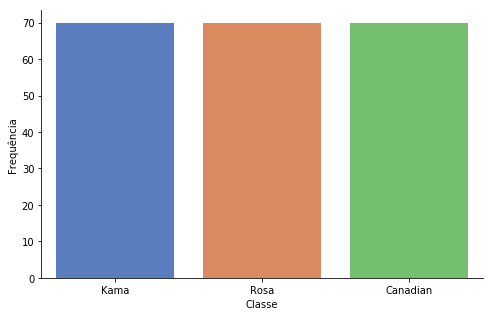
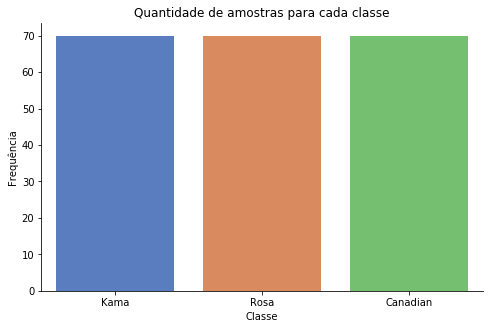
docs: new notebook's conversion to markdown

diff --git a/practical-project-4/resolucao-atividade-4.md b/practical-project-4/resolucao-atividade-4.md
@@ -9,7 +9,7 @@
 ## Importação das bibliotecas
 
 
-```
+```python
 import pandas as pd
 import numpy as np
 import combination as comb
@@ -21,87 +21,91 @@ import matplotlib.pyplot as plt
 from sklearn.model_selection import train_test_split, GridSearchCV
 from sklearn.neural_network import MLPClassifier
 
-from sklearn.metrics import accuracy_score
+from sklearn.metrics import accuracy_score, confusion_matrix
 ```
 
 ## Realizando a leitura do *dataset*
 
 
-```
+```python
 df = pd.read_csv('seeds_dataset.txt', sep='\t', header=None)
 df.columns = ["area","perimeter","compactness",
               "length_kernel","width_kernel","asymmetry_coefficient",
               "length_kernel_groove","variety"]
+print(f'Tamanho do dataset: {len(df)}')
 ```
 
-# Analisando o Dataset
+    Tamanho do dataset: 210
+
+
+# Analisando o *Dataset*
 
 ### 1. Histograma do atributo alvo
 
 
-```
+```python
 target_name = "variety"
-g = sns.catplot(x=target_name, data=df, kind="count", palette="muted", height=4.5, aspect=1.5)
+g = sns.catplot(x=target_name, data=df, kind="count", palette="muted", height=4.5, aspect=1.0)
 g.set_xticklabels(['Kama', 'Rosa', 'Canadian'])
 g.set_axis_labels("Classe", "Frequência")
+plt.title('Quantidade de amostras para cada classe')
+plt.show()
 ```
 
 
+![png](resolucao-atividade-4_files/resolucao-atividade-4_8_0.png)
 
 
-    <seaborn.axisgrid.FacetGrid at 0x1e72408abe0>
-
-
-
-
-![png](resolucao-atividade-4_files/resolucao-atividade-4_8_1.png)
-
+Conforme pode ser visto no histograma, as classes do atributo alvo são balanceadas, pois o *dataset* possui um total de 210 amostras e cada classe possui 70 amostras.
 
 ### 2. Heatmap da correlação de Pearson dos atributos do dataset
 
 
-```
+```python
 plt.figure(figsize = (10,7))
 plt.xticks(fontsize=14)
 plt.yticks(fontsize=14)
 
 corr = df.corr()
 
-sns.heatmap(corr, xticklabels=corr.columns, yticklabels=corr.columns,vmin=-1, vmax=1,linewidths=.5, cmap = "RdBu_r")
+sns.heatmap(corr, xticklabels=corr.columns, yticklabels=corr.columns,vmin=-1, vmax=1,linewidths=.5, cmap = "RdBu_r",annot=True)
+plt.title('Heatmap da correlação de Pearson')
+plt.show()
 ```
 
 
+![png](resolucao-atividade-4_files/resolucao-atividade-4_11_0.png)
 
 
-    <matplotlib.axes._subplots.AxesSubplot at 0x1e724104320>
+O *heatmap* acima exibe a correlação de Pearson entre todos os atributos do *dataset*, como pode ser visto o atributo `length_kernel_groove` possui uma correlação de aproximadamente igual a 0 com o atributo alvo `variety`. Assim, optou-se por remover o atributo do *dataset*.
 
 
-
-
-![png](resolucao-atividade-4_files/resolucao-atividade-4_10_1.png)
-
+```python
+df.drop(['length_kernel_groove'],axis=1,inplace=True)
+```
 
 # Pré-Processamento de Dados
 
+Antes de começar a utilizar o `GridSearchCV`, precisa-se primeiramente preparar o *dataset* e alguns atributos para serem utilizados na busca.
 
-```
+
+```python
 target = df.variety
 df.drop(['variety'],axis=1,inplace=True)
 ```
 
 
-```
-n_i = len(df.columns) #numero de neuronios na camada de entrada
-n_o = 3 #numero de neuronios na camada de saida (sujeito a mudanças)
+```python
+n_i, n_o = len(df.columns), 3
 ```
 
 
-```
+```python
 X_train, X_test, Y_train, Y_test = train_test_split(df,target,test_size=0.3)
 ```
 
 
-```
+```python
 def geometric_pyramid(alpha):
     return alpha*sqrt(n_i*n_o)
 ```
@@ -110,7 +114,7 @@ def geometric_pyramid(alpha):
 Para um `alpha = 2` ou `alpha = 3` o algoritmo para gerar o subconjunto fica bastante pesado. Talvez seja necessário diminuir o valor de `n_i` retirando colunas desnecessárias ou utilizar PCA. Coloquei `alpha = 1` apenas para testar
 
 
-```
+```python
 alpha = [0.5,1]
 n_h = [ceil(geometric_pyramid(a)) for a in alpha]
 hidden_layer_sizes = []
@@ -120,13 +124,12 @@ for n in n_h:
     hidden_layer_sizes = hidden_layer_sizes + subsets
 ```
 
-# Paramêtros para a busca em grade
+# Paramêtros/Hiperparamêtros para a busca em grade
 
-#### Observação:
-Professora pediu pra explicar porquê utilizou tal `solver` para a rede neural. Ela disse que apenas um serviria para o projeto, precisa-se procurar saber qual é
+Na célula seguinte temos os paramêtros a serem passados para as redes neurais. Para o hiperparamêtro *solver*, optou-se por utilizar apenas o `lbfgs` pois o *dataset* desta atividade possui apenas 210 amostras, caracterizando-o como um *dataset* pequeno. Assim, o *solver* `lbfgs` será mais eficiente para o problema.
 
 
-```
+```python
 params = {
     'activation': ['identity', 'logistic','tanh','relu'],
     'hidden_layer_sizes': hidden_layer_sizes,
@@ -134,219 +137,57 @@ params = {
 }
 ```
 
-# Busca em Grade
+# Projetando Redes Neurais através da busca em grade
+
+A acurácia foi selecionada como a métrica de desempenho a ser utilizada para as redes neurais do `GridSearchCV`, e o método de validação cruzada escolhido é o *k-fold* com *k* = 3.
 
 
-```
+```python
 gs = GridSearchCV(MLPClassifier(), params, cv=3, scoring='accuracy', return_train_score=1)
 ```
 
 
-```
-X = df
-y = target
+```python
+X,y = df,target
 ```
 
 
-```
+```python
 gs.fit(X,y);
 ```
 
 
-```
+```python
 pd.DataFrame(gs.cv_results_).drop('params', 1).sort_values(by='rank_test_score').head()
 ```
 
+Acima temos o *DataFrame* das Redes Neurais projetadas com o `GridSearchCV` ordenadas pelo campo `rank_test_score`, ou seja, está sendo exibido as cinco melhores redes neurais criadas. É possível retornar apenas a melhor rede neural através do campo `best_estimator_`, conforme abaixo.
+
+# Avaliando a melhor Rede Neural
 
 
-
-<div>
-<style scoped>
-    .dataframe tbody tr th:only-of-type {
-        vertical-align: middle;
-    }
-
-    .dataframe tbody tr th {
-        vertical-align: top;
-    }
-
-    .dataframe thead th {
-        text-align: right;
-    }
-</style>
-<table border="1" class="dataframe">
-  <thead>
-    <tr style="text-align: right;">
-      <th></th>
-      <th>mean_fit_time</th>
-      <th>std_fit_time</th>
-      <th>mean_score_time</th>
-      <th>std_score_time</th>
-      <th>param_activation</th>
-      <th>param_hidden_layer_sizes</th>
-      <th>param_solver</th>
-      <th>split0_test_score</th>
-      <th>split1_test_score</th>
-      <th>split2_test_score</th>
-      <th>mean_test_score</th>
-      <th>std_test_score</th>
-      <th>rank_test_score</th>
-      <th>split0_train_score</th>
-      <th>split1_train_score</th>
-      <th>split2_train_score</th>
-      <th>mean_train_score</th>
-      <th>std_train_score</th>
-    </tr>
-  </thead>
-  <tbody>
-    <tr>
-      <th>4</th>
-      <td>0.080784</td>
-      <td>0.012296</td>
-      <td>0.000333</td>
-      <td>4.704712e-04</td>
-      <td>identity</td>
-      <td>(5,)</td>
-      <td>lbfgs</td>
-      <td>0.986111</td>
-      <td>0.971014</td>
-      <td>0.797101</td>
-      <td>0.919048</td>
-      <td>0.085531</td>
-      <td>1</td>
-      <td>0.985507</td>
-      <td>0.971631</td>
-      <td>1.000000</td>
-      <td>0.985713</td>
-      <td>0.011582</td>
-    </tr>
-    <tr>
-      <th>6</th>
-      <td>0.055519</td>
-      <td>0.013188</td>
-      <td>0.000665</td>
-      <td>4.701342e-04</td>
-      <td>identity</td>
-      <td>(3, 2)</td>
-      <td>lbfgs</td>
-      <td>0.972222</td>
-      <td>0.971014</td>
-      <td>0.797101</td>
-      <td>0.914286</td>
-      <td>0.081977</td>
-      <td>2</td>
-      <td>0.978261</td>
-      <td>0.964539</td>
-      <td>1.000000</td>
-      <td>0.980933</td>
-      <td>0.014600</td>
-    </tr>
-    <tr>
-      <th>0</th>
-      <td>0.066487</td>
-      <td>0.010751</td>
-      <td>0.000333</td>
-      <td>4.703588e-04</td>
-      <td>identity</td>
-      <td>(3,)</td>
-      <td>lbfgs</td>
-      <td>0.972222</td>
-      <td>0.985507</td>
-      <td>0.768116</td>
-      <td>0.909524</td>
-      <td>0.099071</td>
-      <td>3</td>
-      <td>0.985507</td>
-      <td>0.957447</td>
-      <td>1.000000</td>
-      <td>0.980985</td>
-      <td>0.017664</td>
-    </tr>
-    <tr>
-      <th>20</th>
-      <td>0.056848</td>
-      <td>0.003550</td>
-      <td>0.000665</td>
-      <td>4.701903e-04</td>
-      <td>logistic</td>
-      <td>(3,)</td>
-      <td>lbfgs</td>
-      <td>0.972222</td>
-      <td>0.913043</td>
-      <td>0.840580</td>
-      <td>0.909524</td>
-      <td>0.053978</td>
-      <td>3</td>
-      <td>0.971014</td>
-      <td>0.872340</td>
-      <td>1.000000</td>
-      <td>0.947785</td>
-      <td>0.054644</td>
-    </tr>
-    <tr>
-      <th>24</th>
-      <td>0.059507</td>
-      <td>0.000940</td>
-      <td>0.000997</td>
-      <td>5.150430e-07</td>
-      <td>logistic</td>
-      <td>(5,)</td>
-      <td>lbfgs</td>
-      <td>0.944444</td>
-      <td>0.913043</td>
-      <td>0.768116</td>
-      <td>0.876190</td>
-      <td>0.076689</td>
-      <td>5</td>
-      <td>0.934783</td>
-      <td>0.872340</td>
-      <td>0.992908</td>
-      <td>0.933344</td>
-      <td>0.049232</td>
-    </tr>
-  </tbody>
-</table>
-</div>
-
-
-
-
-```
+```python
 best_model = gs.best_estimator_
 ```
 
 
-```
-best_model;
-```
-
-
-```
+```python
 Y_pred = best_model.predict(X_test)
 ```
 
 
-```
+```python
 accuracy_score(Y_test,Y_pred)
 ```
-
-
-
-
-    1.0
-
-
 
 # Exportando para *Markdown*
 
 
-```
-!jupyter nbconvert Atividade4.ipynb --to markdown --output resolucao-atividade-4.md
+```python
+!jupyter nbconvert Atividade_4.ipynb --to markdown --output resolucao-atividade-4.md
 ```
 
-    [NbConvertApp] Converting notebook Atividade4.ipynb to markdown
-    [NbConvertApp] Support files will be in resolucao-atividade-4_files\
-    [NbConvertApp] Making directory resolucao-atividade-4_files
-    [NbConvertApp] Making directory resolucao-atividade-4_files
-    [NbConvertApp] Writing 6969 bytes to resolucao-atividade-4.md
-    
+
+```python
+
+```
